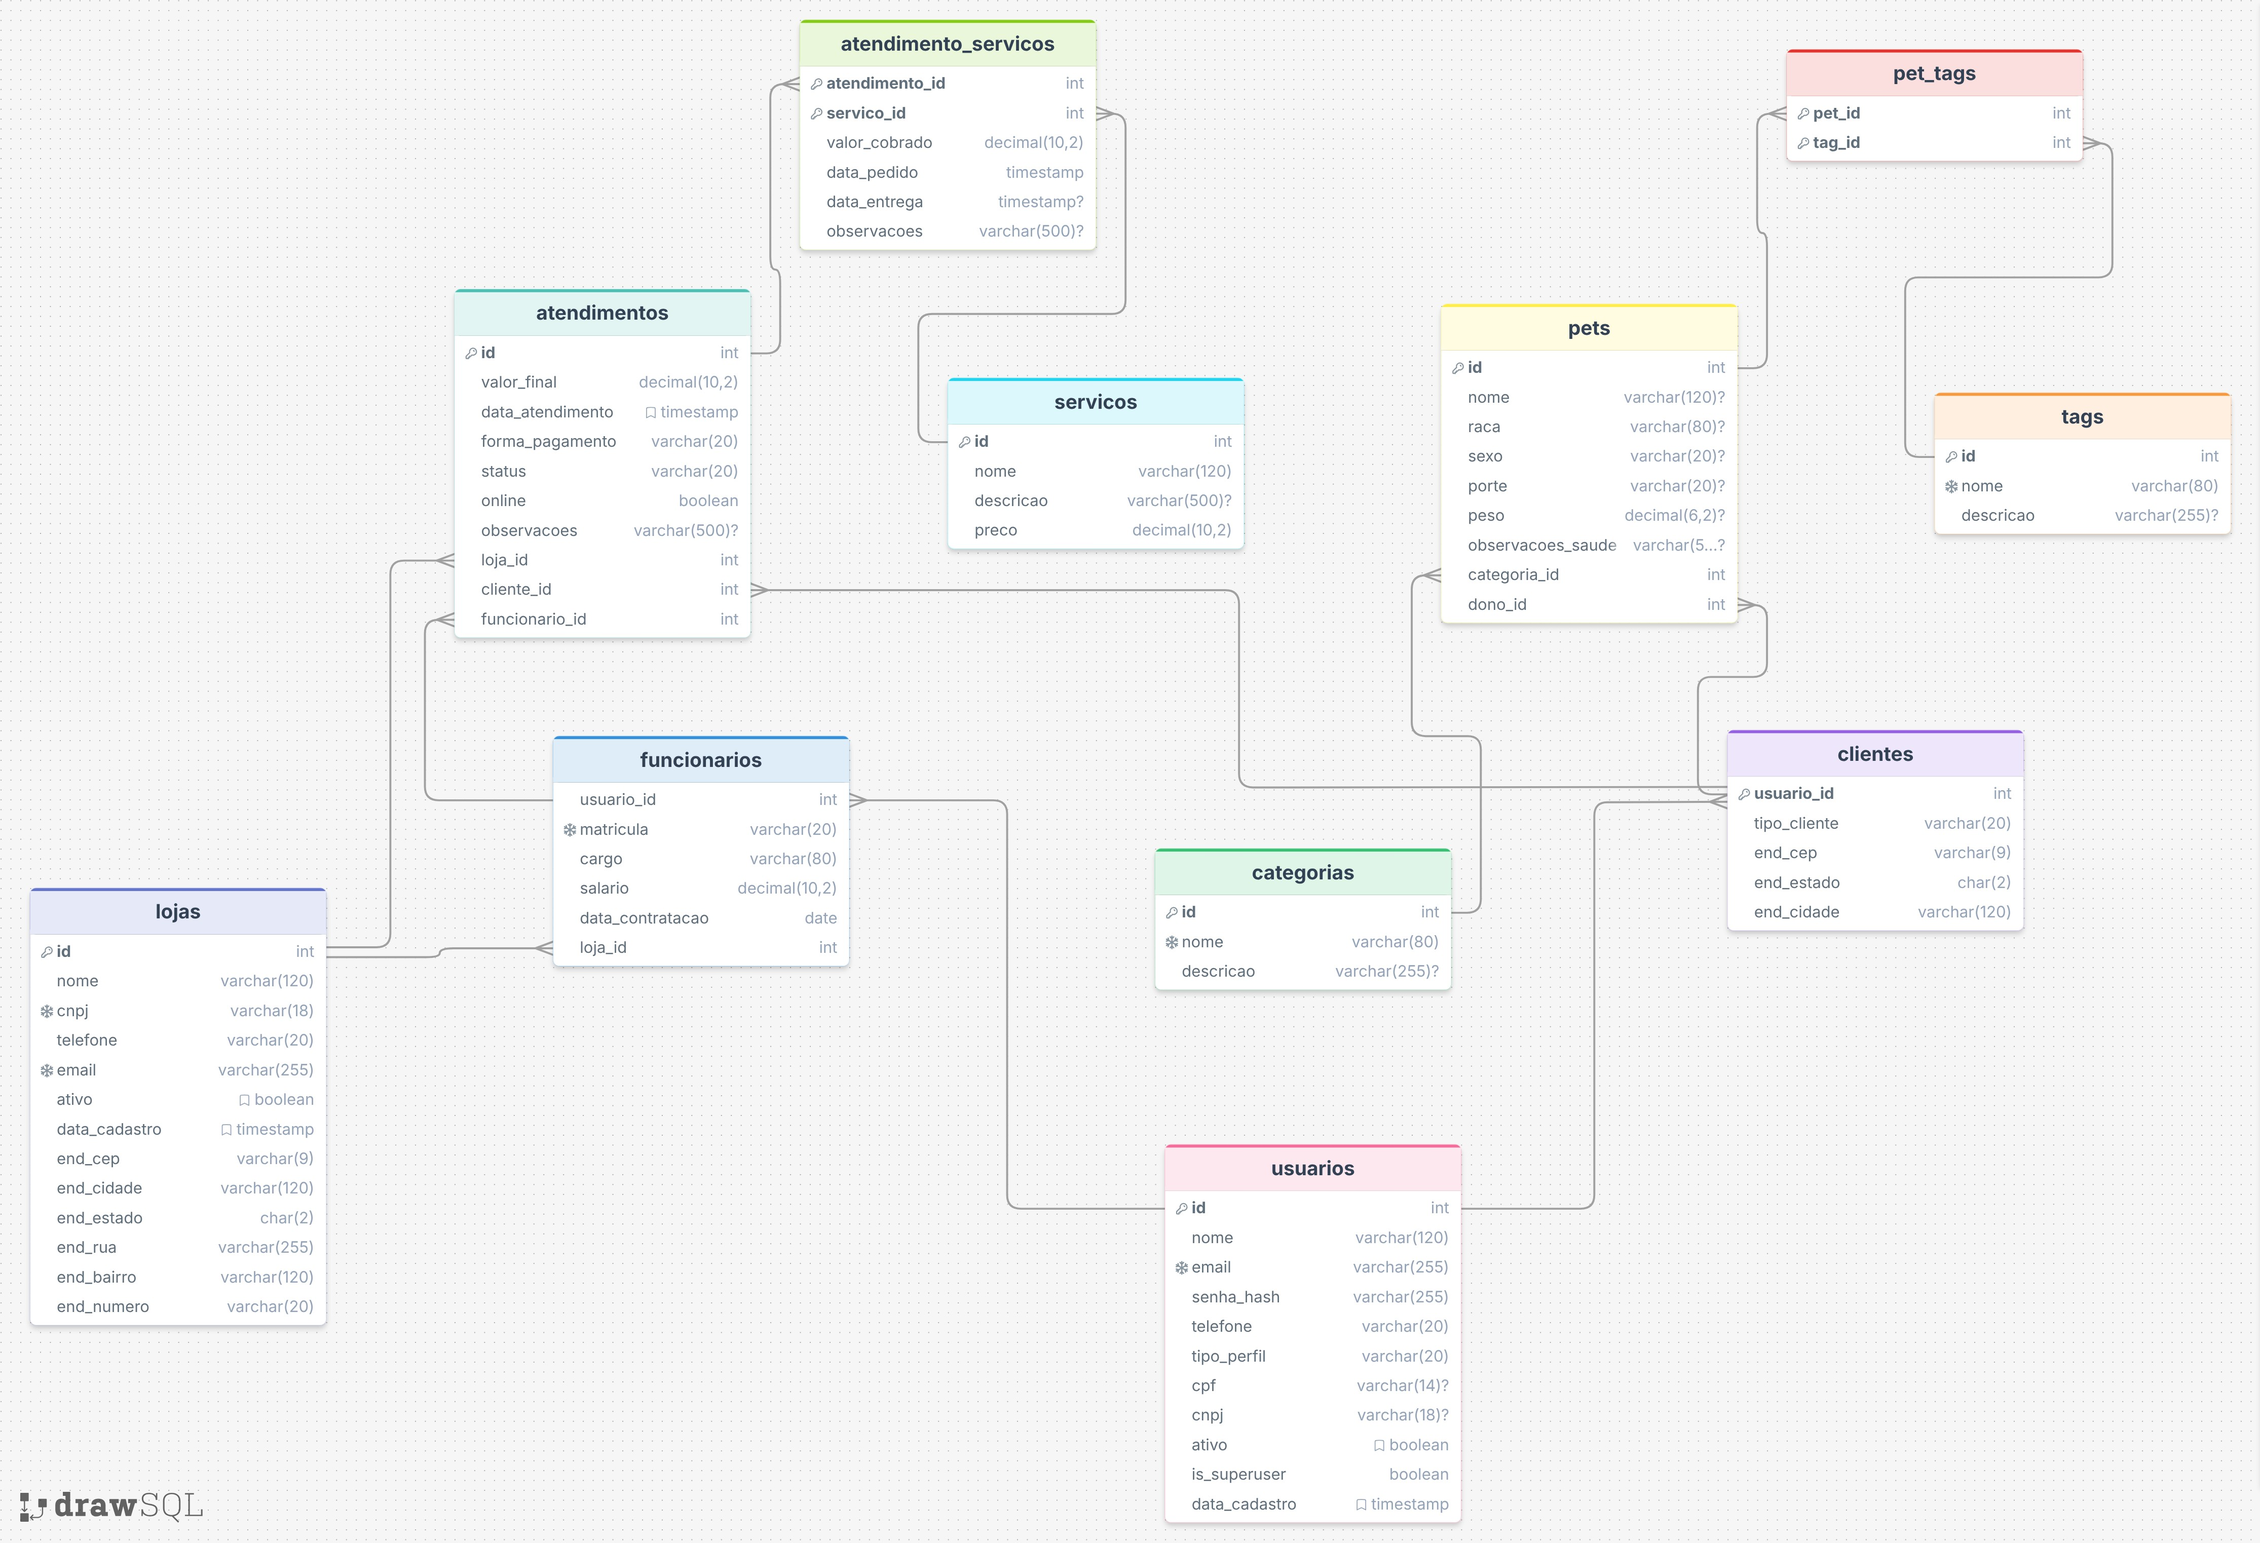
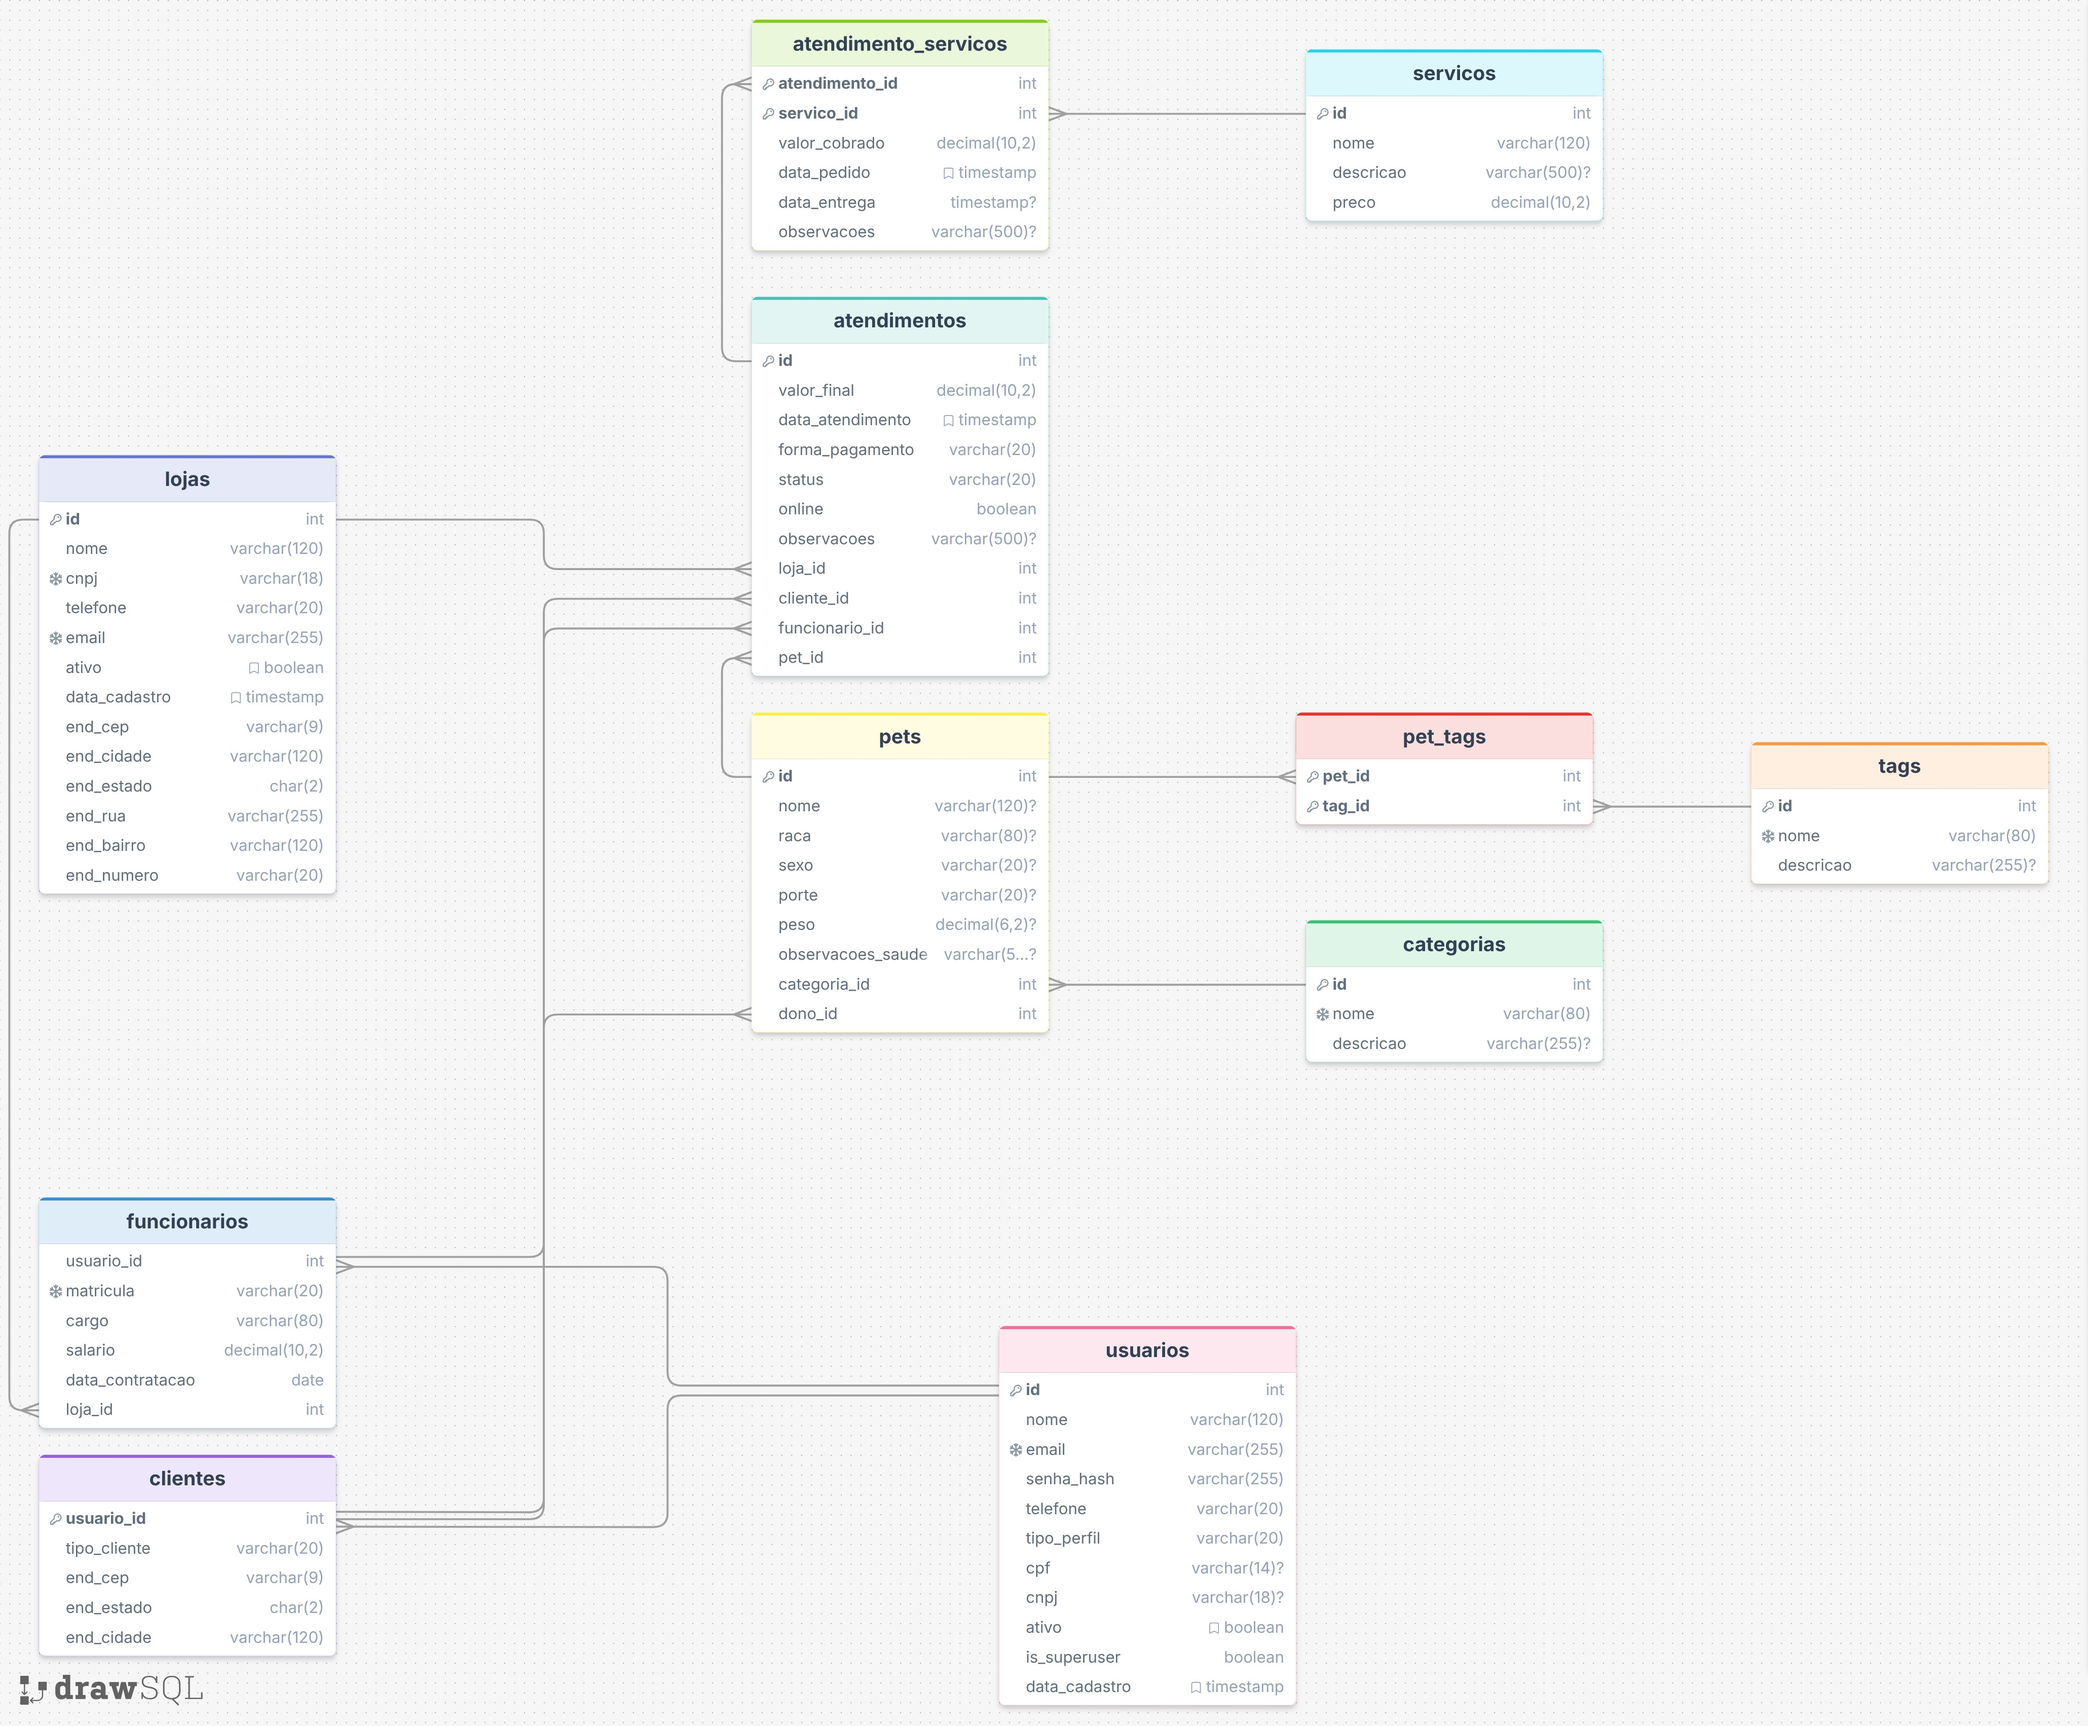
ajustes nos modelos

diff --git a/app/services/appointment_service.py b/app/services/appointment_service.py
@@ -5,7 +5,7 @@ from fastapi import HTTPException
 from sqlalchemy import func
 from sqlalchemy.orm import Session
 
-from app.schemas.models import Appointment, AppointmentService
+from app.schemas.models import Appointment, AppointmentService, Pet
 
 
 def _calculate_appointment_total(db: Session, appointment_id: int) -> Decimal:
@@ -29,6 +29,7 @@ def create_appointment(
 	store_id: int | None = None,
 	client_id: int | None = None,
 	worker_id: int | None = None,
+	pet_id: int | None = None,
 	payment_type: str | None = None,
 	observations: str | None = None,
 	online: bool = False,
@@ -39,8 +40,15 @@ def create_appointment(
 		raise HTTPException(status_code=400, detail="Cliente é obrigatório")
 	if worker_id is None:
 		raise HTTPException(status_code=400, detail="Funcionário é obrigatório")
+	if pet_id is None:
+		raise HTTPException(status_code=400, detail="Pet é obrigatório")
 	if not payment_type:
 		raise HTTPException(status_code=400, detail="Forma de pagamento é obrigatória")
+
+	# Validar se pet existe
+	pet = db.query(Pet).filter(Pet.id == pet_id).first()
+	if not pet:
+		raise HTTPException(status_code=404, detail="Pet não encontrado")
 
 	appointment = Appointment(
 		value_final=Decimal("0"),
@@ -52,6 +60,7 @@ def create_appointment(
 		store_id=store_id,
 		client_id=client_id,
 		worker_id=worker_id,
+		pet_id=pet_id,
 	)
 	db.add(appointment)
 	db.commit()
@@ -74,11 +83,17 @@ def update_appointment(
 	store_id: int | None = None,
 	client_id: int | None = None,
 	worker_id: int | None = None,
+	pet_id: int | None = None,
 	payment_type: str | None = None,
 	observations: str | None = None,
 	online: bool | None = None,
 ):
 	appointment = get_appointment(db, appointment_id)
+
+	if pet_id is not None:
+		pet = db.query(Pet).filter(Pet.id == pet_id).first()
+		if not pet:
+			raise HTTPException(status_code=404, detail="Pet não encontrado")
 
 	updates = {
 		"service_at": service_at,
@@ -86,6 +101,7 @@ def update_appointment(
 		"store_id": store_id,
 		"client_id": client_id,
 		"worker_id": worker_id,
+		"pet_id": pet_id,
 		"payment_type": payment_type,
 		"observations": observations,
 		"online": online,

diff --git a/app/routers/appointment_crud.py b/app/routers/appointment_crud.py
@@ -17,6 +17,7 @@ def criar_atendimento(
 	store_id: int = Query(...),
 	client_id: int = Query(...),
 	worker_id: int = Query(...),
+	pet_id: int = Query(...),
 	payment_type: str | None = Query(None),
 	observations: str | None = Query(None),
 	online: bool = Query(False),
@@ -29,6 +30,7 @@ def criar_atendimento(
 		store_id=store_id,
 		client_id=client_id,
 		worker_id=worker_id,
+		pet_id=pet_id,
 		payment_type=payment_type,
 		observations=observations,
 		online=online,
@@ -53,6 +55,7 @@ def atualizar_atendimento(
 	store_id: int | None = Query(None),
 	client_id: int | None = Query(None),
 	worker_id: int | None = Query(None),
+	pet_id: int | None = Query(None),
 	payment_type: str | None = Query(None),
 	observations: str | None = Query(None),
 	online: bool | None = Query(None),
@@ -66,6 +69,7 @@ def atualizar_atendimento(
 		store_id=store_id,
 		client_id=client_id,
 		worker_id=worker_id,
+		pet_id=pet_id,
 		payment_type=payment_type,
 		observations=observations,
 		online=online,

diff --git a/app/schemas/models.py b/app/schemas/models.py
@@ -157,10 +157,12 @@ class Appointment(Base):
     store_id = Column("loja_id", Integer, ForeignKey("lojas.id", ondelete="CASCADE"), nullable=False)
     client_id = Column("cliente_id", Integer, ForeignKey("clientes.usuario_id"), nullable=False)
     worker_id = Column("funcionario_id", Integer, ForeignKey("funcionarios.usuario_id"), nullable=False)
+    pet_id = Column(Integer, ForeignKey("pets.id", ondelete="CASCADE"), nullable=False)
 
     store = relationship("Store", back_populates="appointments")
     client = relationship("ClientModel", back_populates="appointments")
     worker = relationship("EmployeeModel", back_populates="appointments")
+    pet = relationship("Pet", backref="appointments")
     items = relationship("AppointmentService", back_populates="appointment", cascade="all, delete-orphan")
 
 

diff --git a/app/schemas/schemas.py b/app/schemas/schemas.py
@@ -1,6 +1,6 @@
 from datetime import date, datetime
 from decimal import Decimal
-from typing import Optional
+from typing import Optional, List
 
 from enum import Enum
 
@@ -255,6 +255,8 @@ class Appointment(BaseModel):
     store_id: int
     client_id: int
     worker_id: int
+    pet_id: int
+    items: List['AppointmentService'] = []
 
     class Config:
         from_attributes = True
@@ -270,6 +272,7 @@ class AppointmentCreate(BaseModel):
     store_id: int
     client_id: int
     worker_id: int
+    pet_id: int
 
 
 class AppointmentUpdate(BaseModel):
@@ -282,6 +285,7 @@ class AppointmentUpdate(BaseModel):
     store_id: Optional[int] = None
     client_id: Optional[int] = None
     worker_id: Optional[int] = None
+    pet_id: Optional[int] = None
 
 
 class AppointmentService(BaseModel):

diff --git a/docs/integracao_frontend_api.md b/docs/integracao_frontend_api.md
@@ -34,6 +34,16 @@ await api.post('/user', null, {
 });
 ```
 
+## 2.1 Mudancas recentes
+
+### Appointments agora retornam os servicos prestados
+A partir da versao atual, ao retornar um atendimento, o endpoint inclui automaticamente a lista de servicos prestados (campo `items`). Isso elimina a necessidade de fazer uma chamada adicional para obter os detalhes dos servicos.
+
+**O que mudou:**
+- Campo `items` adicionado ao schema `Appointment`
+- Cada item contem: `service_id`, `charged_value`, `order_date`, `delivery_date`, e `observations`
+- O `value_final` é calculado automaticamente como soma dos `charged_value` dos itens
+
 ## 3. Convencao de respostas e erros
 
 ### 3.1 Sucesso
@@ -319,20 +329,21 @@ Prefixo: `/appointment`
     - `store_id` (int, obrigatorio)
     - `client_id` (int, obrigatorio)
     - `worker_id` (int, obrigatorio)
+    - `pet_id` (int, obrigatorio)
     - `payment_type` (string, obrigatorio na regra de negocio)
     - `observations` (string, opcional)
     - `online` (boolean, opcional, default `false`)
-  - Retorno: `201` + `Appointment`
+  - Retorno: `201` + `Appointment` (campos `items` vazio na criacao)
 
 - `GET /appointment/appointments`
-  - Retorno: `200` + `Appointment[]`
+  - Retorno: `200` + `Appointment[]` (com `items` preenchidos para cada atendimento)
 
 - `GET /appointment/{id}`
-  - Retorno: `200` + `Appointment`
+  - Retorno: `200` + `Appointment` (com `items` preenchidos)
 
 - `PUT /appointment/{id}`
   - Query params: todos opcionais
-  - Retorno: `200` + `Appointment`
+  - Retorno: `200` + `Appointment` (com `items` preenchidos)
 
 - `DELETE /appointment/{id}`
   - Retorno: `200` + `{ "message": "Atendimento deletado com sucesso" }`
@@ -342,17 +353,55 @@ Prefixo: `/appointment`
 ```json
 {
   "id": 1,
-  "value_final": 120,
-  "service_at": "2026-04-14T20:00:00",
+  "value_final": 80.00,
+  "service_at": "2026-02-01T10:00:00",
   "payment_type": "pix",
-  "status": "agendado",
+  "status": "concluido",
   "online": false,
-  "observations": "Cliente prefere horario da tarde",
+  "observations": "Atendimento tranquilo",
   "store_id": 1,
-  "client_id": 5,
-  "worker_id": 7
+  "client_id": 1,
+  "worker_id": 6,
+  "pet_id": 1,
+  "items": [
+    {
+      "appointment_id": 1,
+      "service_id": 1,
+      "charged_value": 80.00,
+      "order_date": "2026-02-01T10:00:00",
+      "delivery_date": null,
+      "observations": "Banho completo realizado"
+    },
+    {
+      "appointment_id": 1,
+      "service_id": 2,
+      "charged_value": 40.00,
+      "order_date": "2026-02-01T10:15:00",
+      "delivery_date": null,
+      "observations": "Tosa complementar"
+    }
+  ]
 }
 ```
+
+**Observação**: O campo `items` contém todos os serviços prestados no atendimento. Cada item representa um serviço com seu valor cobrado e opcional data de entrega. O `value_final` é calculado automaticamente como a soma de todos os `charged_value` dos itens.
+
+**O que muda no Frontend:**
+
+1. **Sem chamadas adicionais**: Antes, era necessário fazer uma chamada separada para obter os serviços de um atendimento. Agora eles vêm junto.
+
+2. **Estrutura de iteração**: Para listar os serviços de um atendimento agora é simples:
+```ts
+appointment.items.forEach(item => {
+  console.log(`Serviço ${item.service_id}: R$ ${item.charged_value}`);
+});
+```
+
+3. **Valor total**: O `value_final` já está calculado. Nunca calcule manualmente no front; use sempre `appointment.value_final`.
+
+**Criar um Atendimento com Serviços:**
+
+Atualmente, o endpoint POST cria apenas o atendimento vazio. Após criar, você precisa adicionar os serviços via um endpoint separado (que será documentado em breve) ou através da gestão de `atendimento_servicos`.
 
 ## 5. Tipos recomendados no frontend (TypeScript)
 
@@ -426,6 +475,15 @@ export interface Tag {
   description: string | null;
 }
 
+export interface AppointmentService {
+  appointment_id: number;
+  service_id: number;
+  charged_value: number;
+  order_date: string;
+  delivery_date: string | null;
+  observations: string | null;
+}
+
 export interface Appointment {
   id: number;
   value_final: number;
@@ -437,6 +495,8 @@ export interface Appointment {
   store_id: number;
   client_id: number;
   worker_id: number;
+  pet_id: number;
+  items: AppointmentService[];
 }
 ```
 
@@ -476,6 +536,33 @@ export async function updateUser(userId: number, payload: Partial<{
   const { data } = await api.put(`/user/${userId}`, null, { params: payload });
   return data;
 }
+
+// Exemplo especifico para appointments
+export async function getAppointment(appointmentId: number) {
+  const { data } = await api.get(`/appointment/${appointmentId}`);
+  // data sera um objeto Appointment com items preenchido
+  return data;
+}
+
+export async function listAppointments() {
+  const { data } = await api.get('/appointment/appointments');
+  // Cada item no array tera a lista de servicos prestados
+  return data;
+}
+```
+
+### Exemplo de uso no componente (React)
+
+```tsx
+const appointment = await getAppointment(1);
+
+// Agora voce poate acessar os servicos direto:
+appointment.items.forEach(item => {
+  console.log(`Servico ${item.service_id}: R$ ${item.charged_value}`);
+});
+
+// Total ja esta calculado
+console.log(`Total: R$ ${appointment.value_final}`);
 ```
 
 ## 7. Checklist de integracao no frontend
